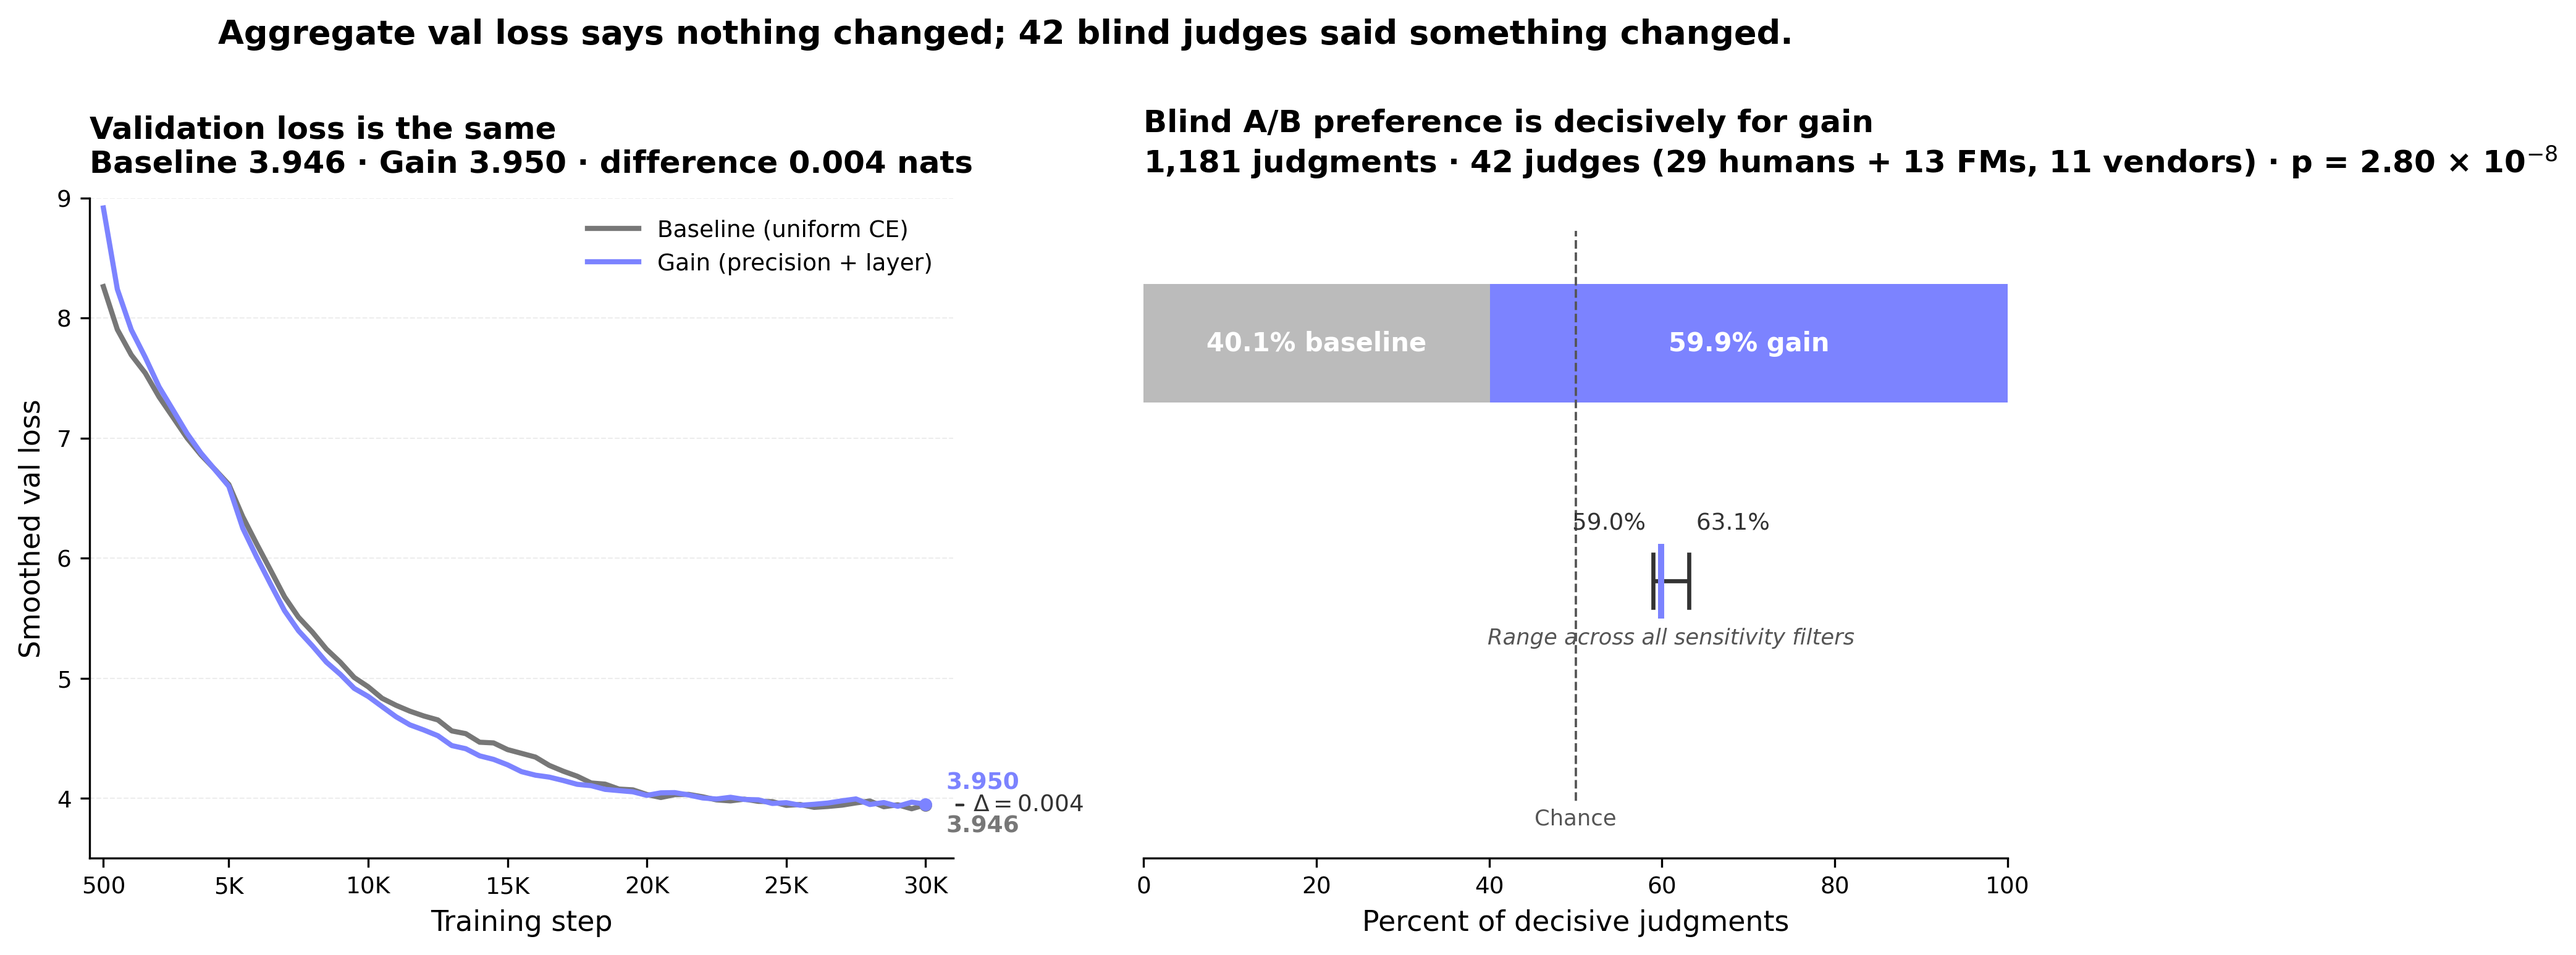
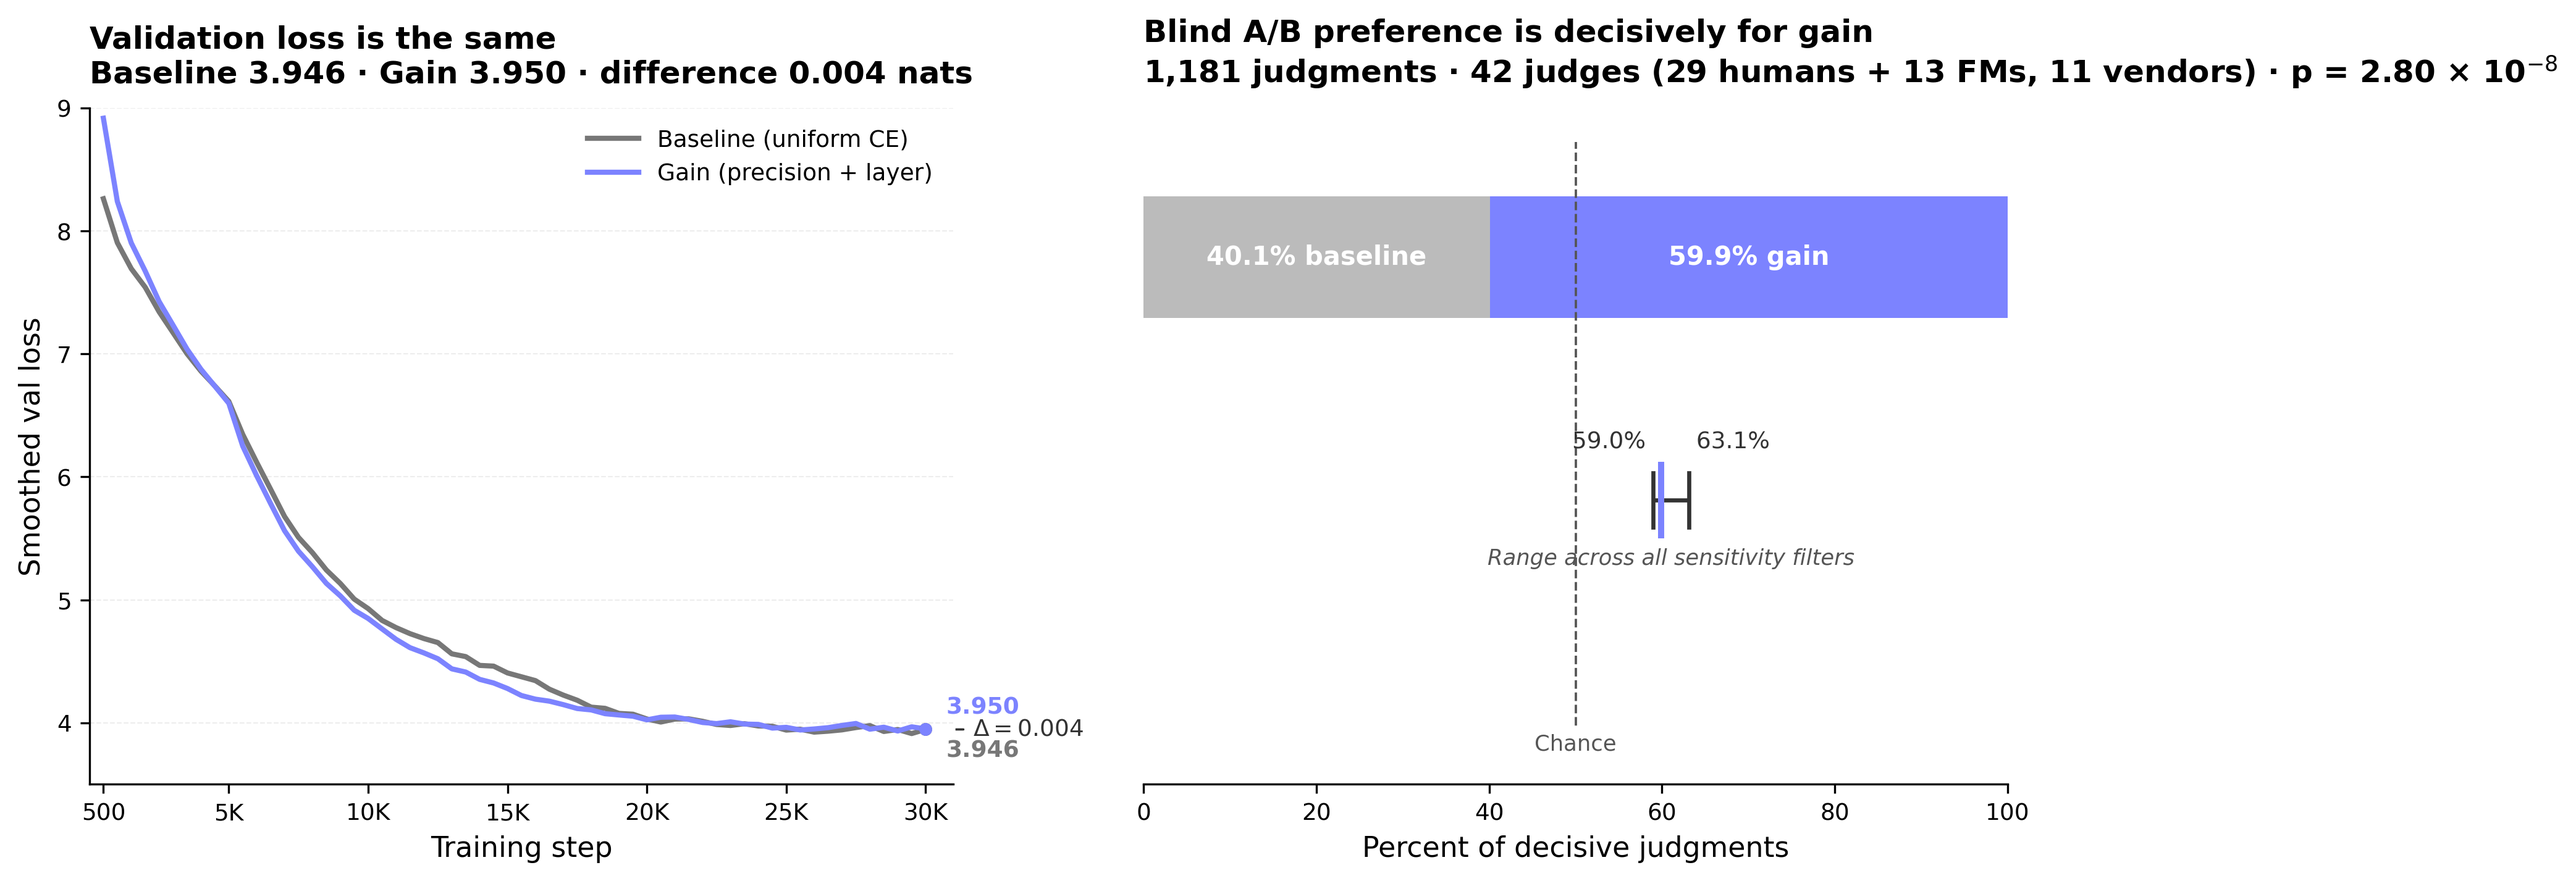
fig: drop wide suptitle from Figure 2; let caption carry the punchline
The bold suptitle ("Aggregate val loss says nothing changed; 42 blind
judges said something changed.") was wider than the plot area, so
savefig.bbox='tight' enlarged the PNG canvas to fit it. When GitHub
rendered the figure at column width, the actual plots shrank to
compensate, and the bold banner crowded the table directly above.
The figure caption already says the same thing.

diff --git a/paper/figures/_render.py b/paper/figures/_render.py
@@ -156,9 +156,9 @@ def render_fig2():
     bl_color = '#777777'
     gn_color = '#7c83ff'
 
-    fig = plt.figure(figsize=(11.5, 5.4))
+    fig = plt.figure(figsize=(11.5, 5.0))
     gs = fig.add_gridspec(1, 2, width_ratios=[1.0, 1.0], wspace=0.22,
-                          left=0.07, right=0.97, top=0.78, bottom=0.12)
+                          left=0.07, right=0.97, top=0.86, bottom=0.13)
     ax_l = fig.add_subplot(gs[0, 0])
     ax_r = fig.add_subplot(gs[0, 1])
 
@@ -279,10 +279,6 @@ def render_fig2():
                    r'p = 2.80 × 10$^{-8}$',
                    loc='left', pad=10)
     ax_r.xaxis.set_major_locator(MultipleLocator(20))
-
-    # Suptitle banner across both panels (positioned via subplots_adjust above)
-    fig.suptitle('Aggregate val loss says nothing changed; 42 blind judges said something changed.',
-                 fontsize=13, fontweight='bold', y=0.96, x=0.5)
 
     out = HERE / 'fig2_loss_vs_preference.png'
     fig.savefig(out)
